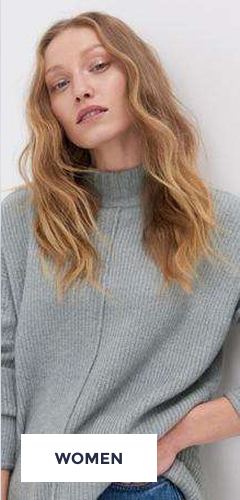
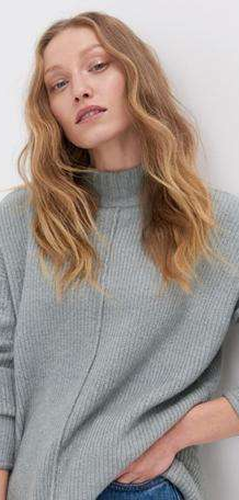
CategoryPick.jsx done

diff --git a/src/components/CategoryPick.jsx b/src/components/CategoryPick.jsx
@@ -16,25 +16,64 @@ const CategoryPick = () => {
   return (
     <div className="py-10 px-4 md:px-20">
       <h2 className="text-2xl md:text-3xl font-bold mb-8 text-center">Editor's Pick</h2>
+      <p className="text-center text-gray-500 mb-8 text-sm md:text-base">
+        Problems trying to resolve the conflict between
+      </p>
       
-      <div className="grid grid-cols-2 md:grid-cols-4 gap-6">
-        {categories.map((cat) => (
-          <div key={cat.id} className="relative group cursor-pointer overflow-hidden rounded-md shadow-lg">
-            <img 
-              src={cat.image} 
-              alt={cat.title} 
-              className="w-full h-40 md:h-60 object-cover transition-transform duration-300 group-hover:scale-110" 
-            />
-            <div className="absolute inset-0 bg-black bg-opacity-30 flex items-center justify-center">
-              <h3 className="text-white text-lg font-semibold">{cat.title}</h3>
-            </div>
-          </div>
-        ))}
+      <div className="flex flex-wrap justify-center gap-4">
+  {/* Men */}
+  <div className="relative group cursor-pointer overflow-hidden rounded-md shadow-lg basis-full md:basis-[50%] md:max-w-[510px] md:h-[500px]">
+    <img 
+      src={menImage} 
+      alt="Men" 
+      className="w-full h-full object-cover transition-transform duration-300 group-hover:scale-105" 
+    />
+    <div className="absolute bottom-4 left-4 bg-white px-4 py-2 text-black font-semibold text-sm">
+      MEN
+    </div>
+  </div>
+
+  {/* Women */}
+  <div className="relative group cursor-pointer overflow-hidden rounded-md shadow-lg basis-[48%] md:basis-[240px] md:h-[500px]">
+    <img 
+      src={womenImage} 
+      alt="Women" 
+      className="w-full h-full object-cover transition-transform duration-300 group-hover:scale-105" 
+    />
+    <div className="absolute bottom-4 left-4 bg-white px-4 py-2 text-black font-semibold text-sm">
+      WOMEN
+    </div>
+  </div>
+
+  {/* Accessories + Kids Nested */}
+  <div className="flex flex-col gap-4 basis-[48%] md:basis-[240px]">
+    <div className="relative group cursor-pointer overflow-hidden rounded-md shadow-lg h-[242px]">
+      <img 
+        src={accessoriesImage} 
+        alt="Accessories" 
+        className="w-full h-full object-cover transition-transform duration-300 group-hover:scale-105" 
+      />
+      <div className="absolute bottom-4 left-4 bg-white px-4 py-2 text-black font-semibold text-sm">
+        ACCESSORIES
       </div>
     </div>
+
+    <div className="relative group cursor-pointer overflow-hidden rounded-md shadow-lg h-[242px]">
+      <img 
+        src={kidsImage} 
+        alt="Kids" 
+        className="w-full h-full object-cover transition-transform duration-300 group-hover:scale-105" 
+      />
+      <div className="absolute bottom-4 left-4 bg-white px-4 py-2 text-black font-semibold text-sm">
+        KIDS
+      </div>
+    </div>
+  </div>
+</div>
+</div>
   );
 };
 
 export default CategoryPick;
 
-//TODO: Burda kullanılan sınıfları öğren ve düzenle
+//TODO: Burda kullanılan sınıfları öğren ve düzenle ayrıca kafalar kesik 

diff --git a/src/layouts/Layout.jsx b/src/layouts/Layout.jsx
@@ -9,6 +9,7 @@ export default function Layout({ children }) {
       <main className="flex-grow bg-gray-50">{children}</main>
       <footer className="bg-gray-800 text-white py-4 text-center">
         Footer Content
+        
       </footer>
     </div>
   );

diff --git a/src/components/HeroSlider.jsx b/src/components/HeroSlider.jsx
@@ -47,7 +47,9 @@ const HeroSlider = () => {
           background: white;
         }
       `}</style>
+      
           </div>
+          
         );
       };
  

diff --git a/src/layouts/tests.jsx b/src/layouts/tests.jsx
@@ -1,0 +1,13 @@
+import react from "react";
+
+const tests = () => {
+
+    return(
+
+
+
+
+    );
+};
+
+export default tests;
